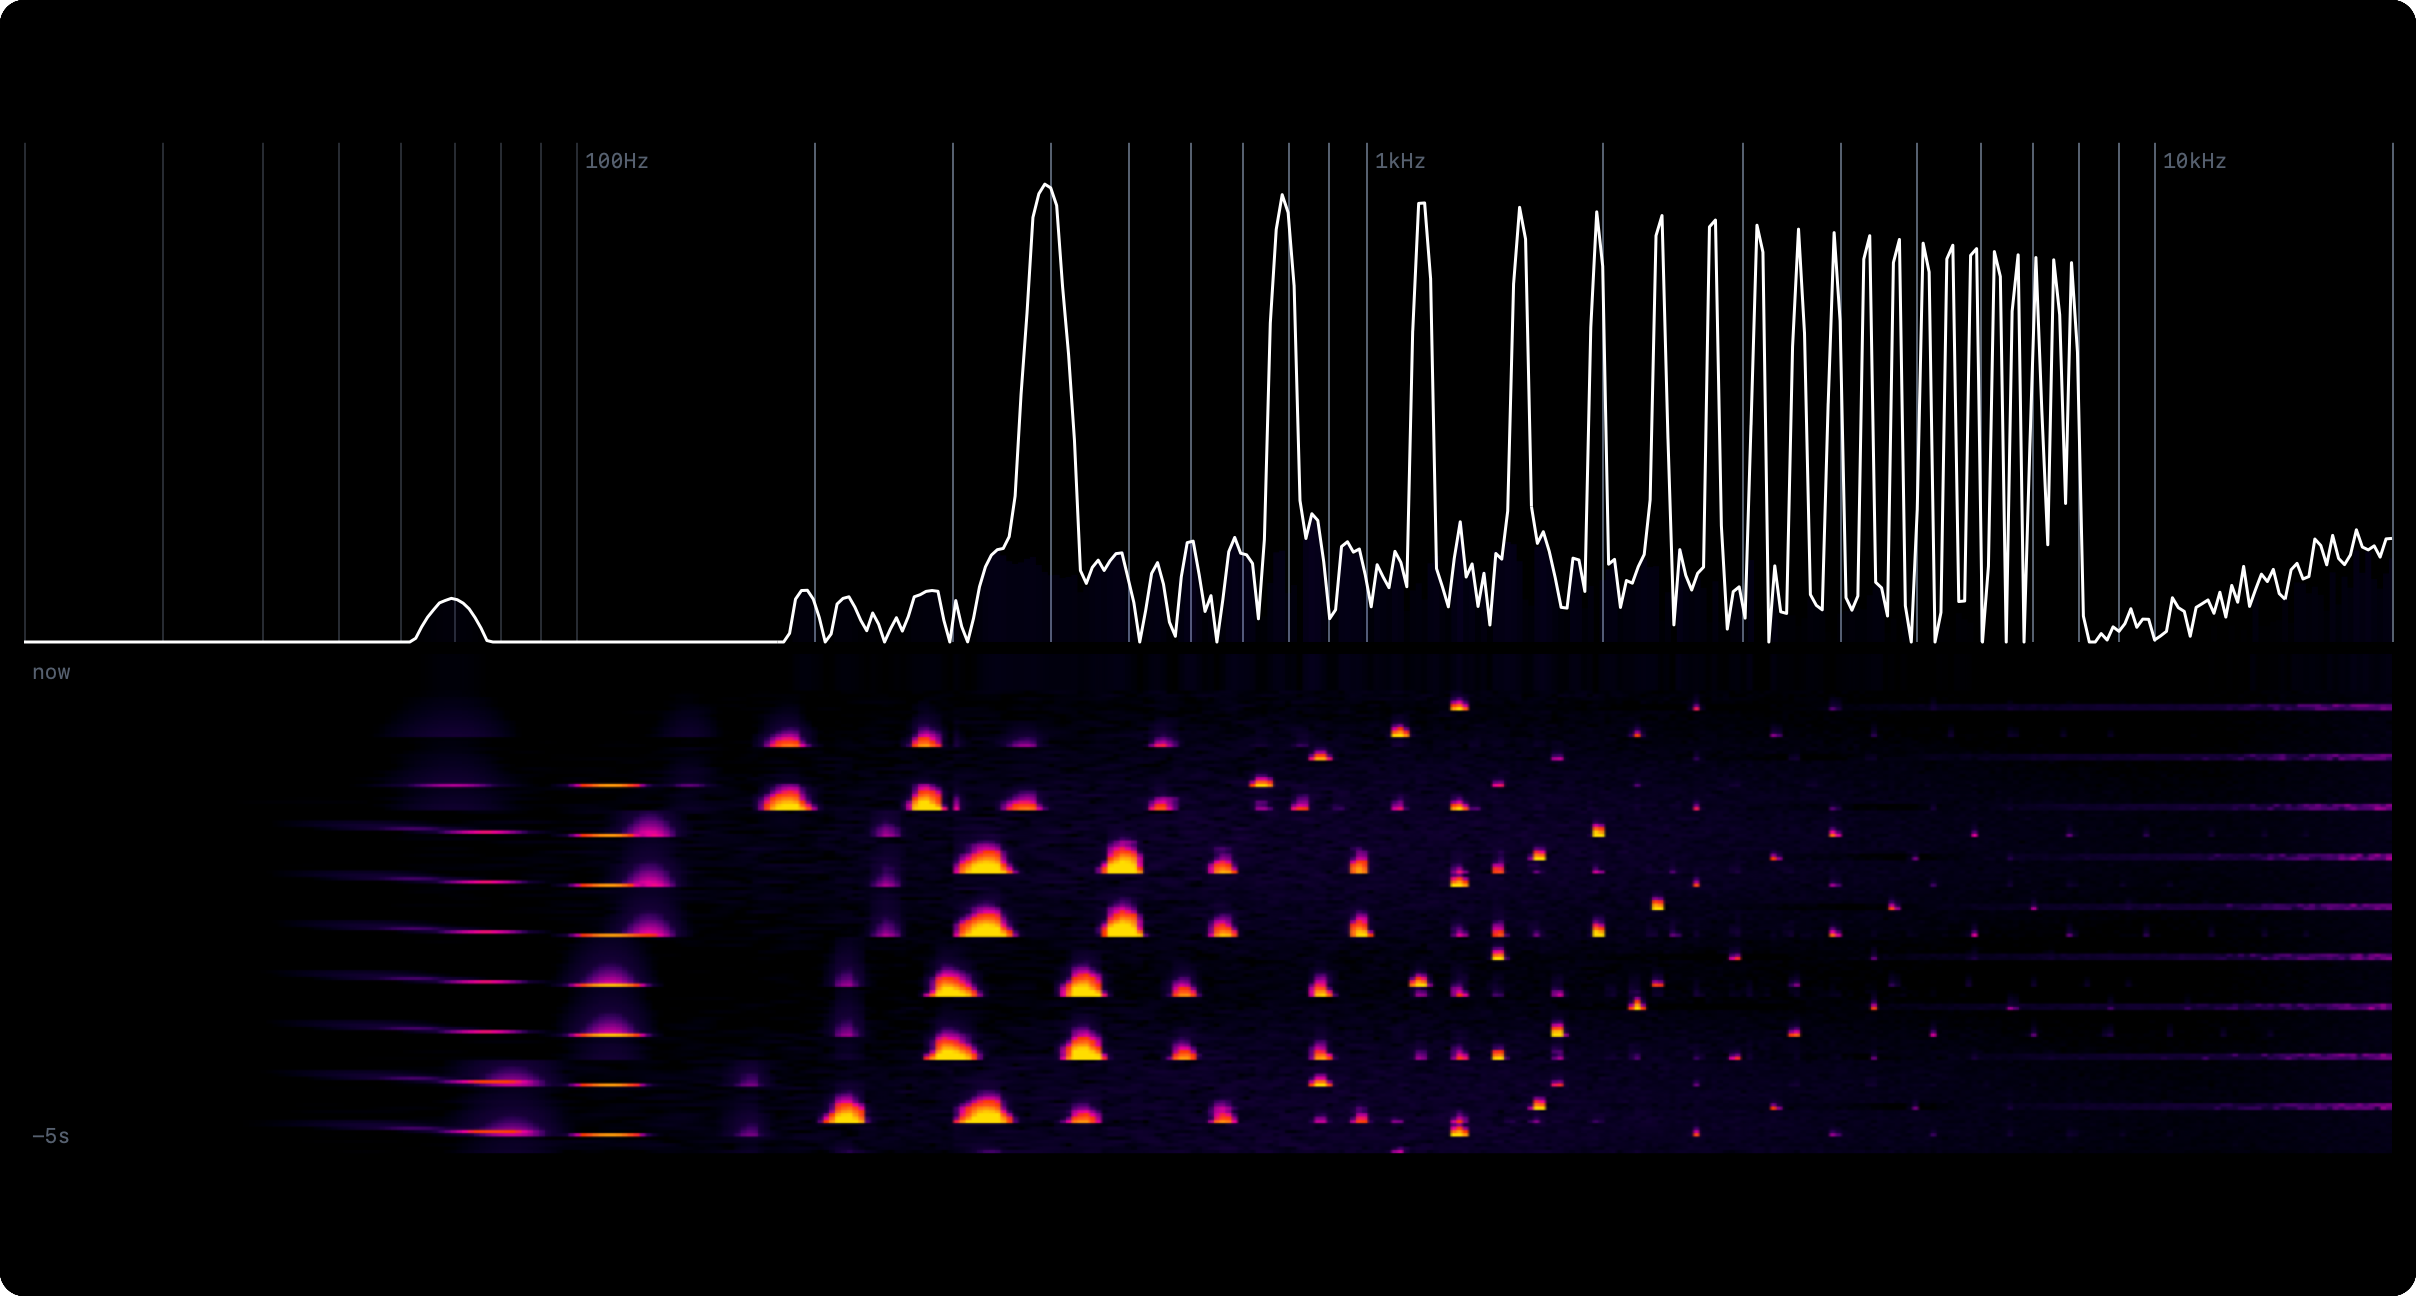
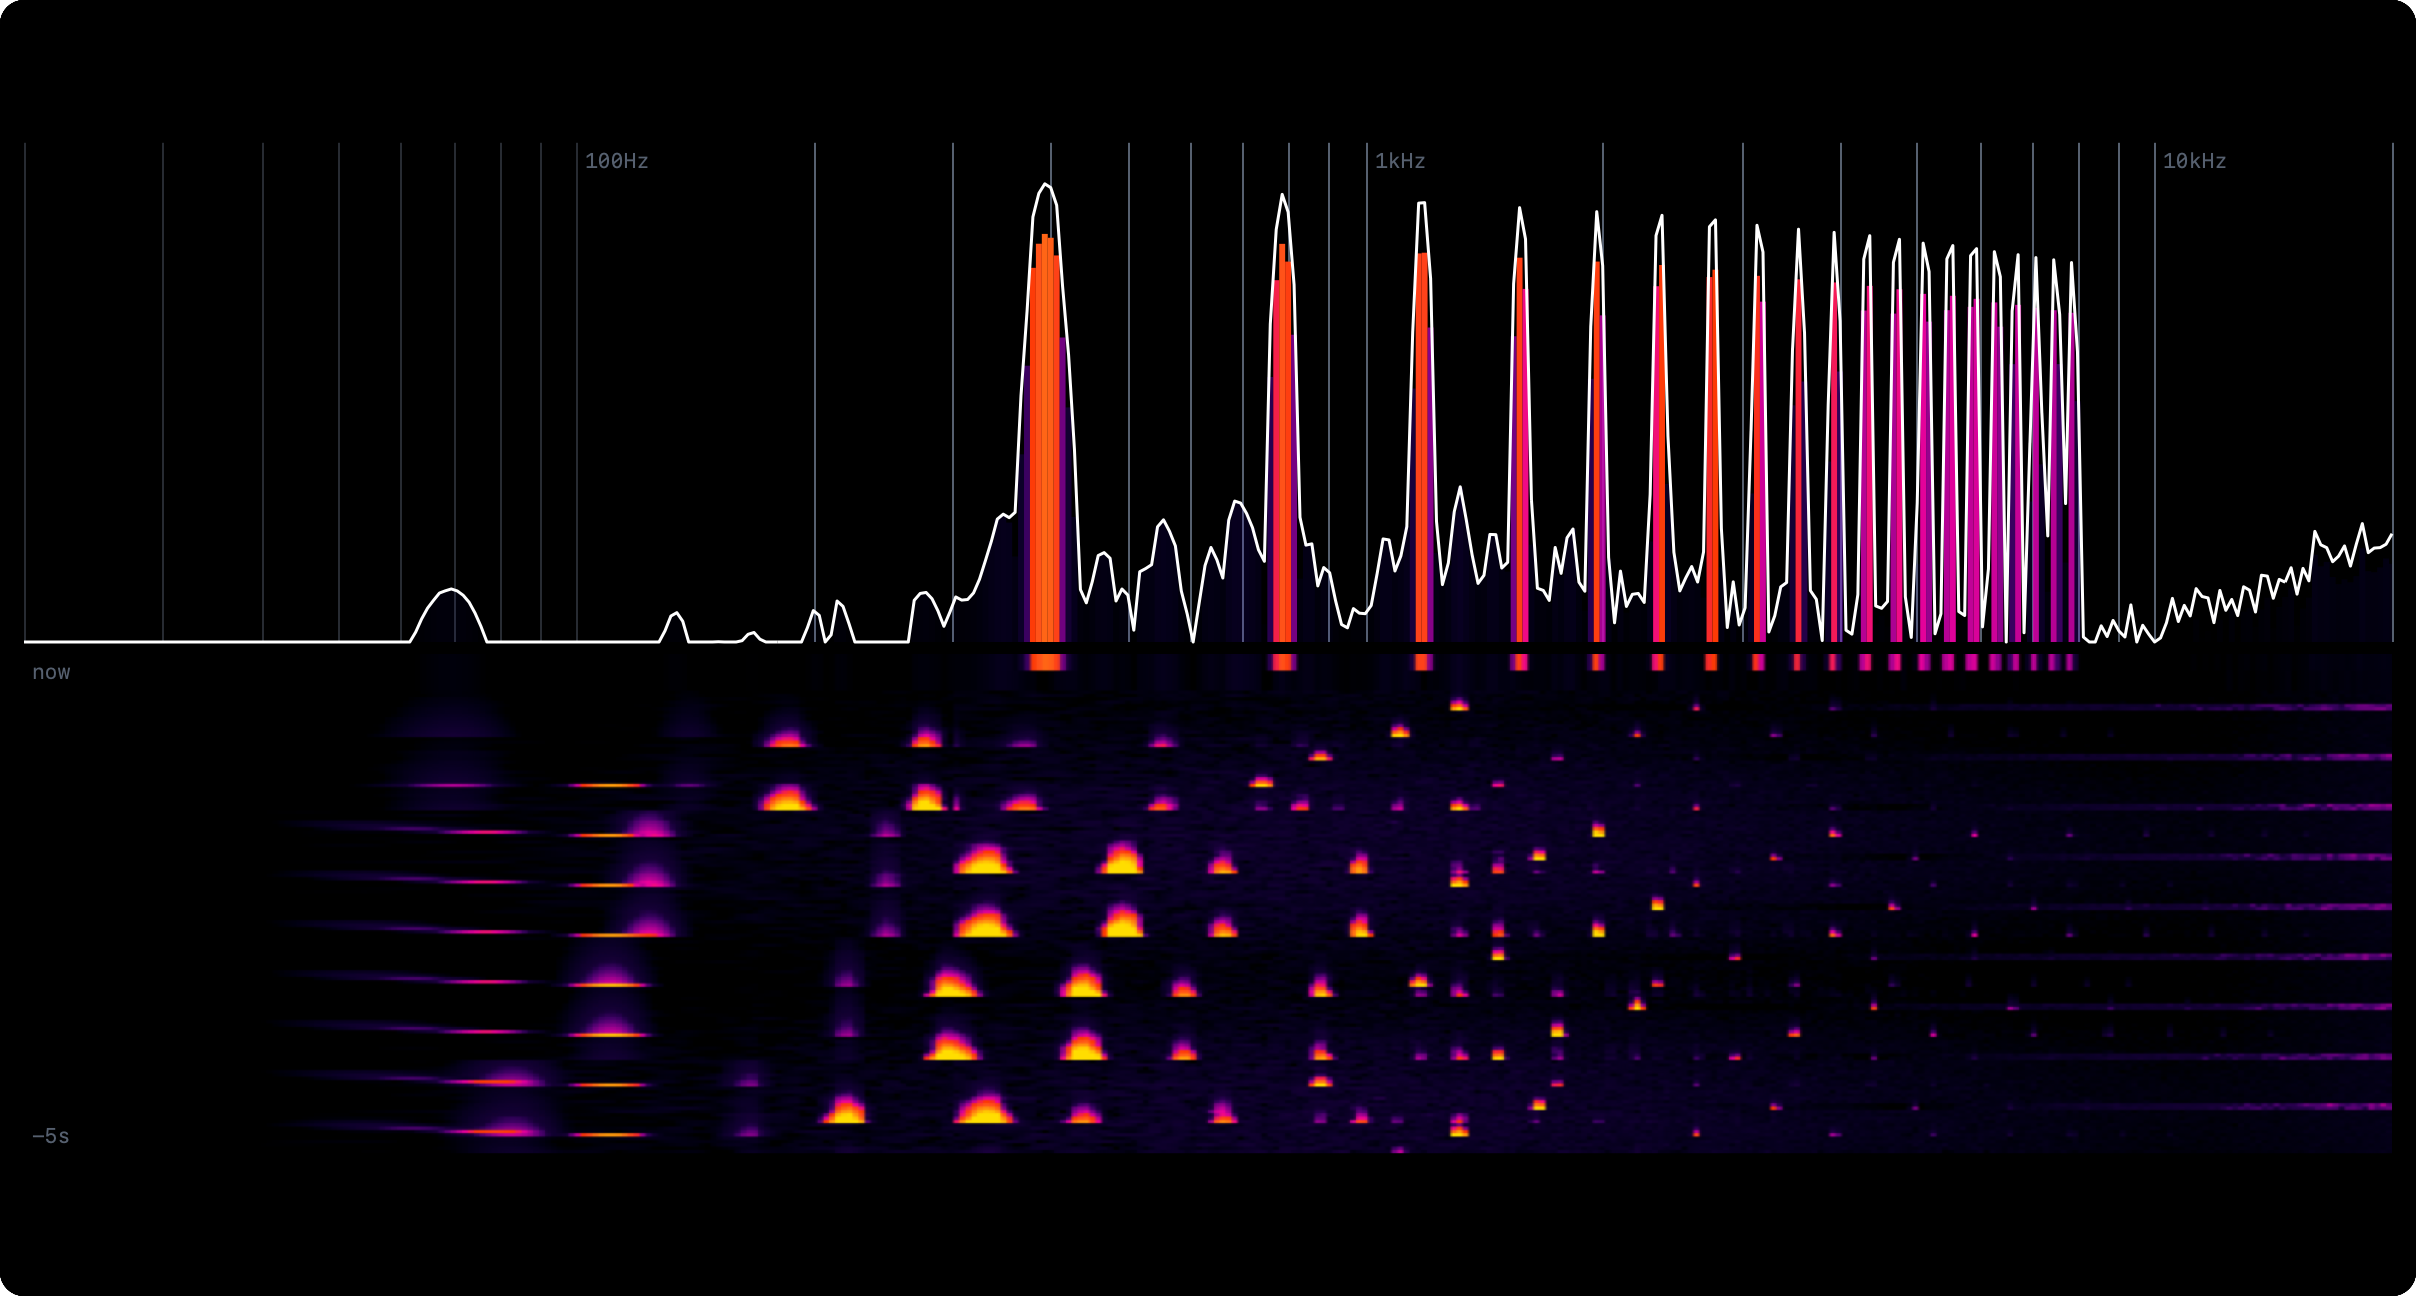
2D spectrum screenshot: show the coloured bars
The test signal muted the vocals, so the heard bars sat in the clear part of the
colour map. The 2D picture now plays the vocals at half level.

Changed region(s): [[0.3104, 0.1852, 0.9623, 0.5247], [0.9623, 0.4012, 0.9934, 0.4321], [0.1552, 0.463, 0.1863, 0.4938]]

diff --git a/Sources/LiveStems/SpectrumE2E.swift b/Sources/LiveStems/SpectrumE2E.swift
@@ -45,7 +45,7 @@ enum SpectrumE2E {
     controller.window.setContentSize(NSSize(width: 1240, height: 724))
     controller.window.contentView?.layoutSubtreeIfNeeded()
     var generator = SystemRandomNumberGenerator()
-    var pushSeconds = [Double](), last = ([Float](), [Float]())
+    var pushSeconds = [Double](), last = ([Float](), [Float]()), halfVocals = [Float]()
     let progression: [[Float]] = [[0, 4, 7, 11], [5, 9, 12, 16], [7, 11, 14, 17], [-3, 0, 4, 7]]
     for frame in 0..<(view.seconds * SpectrumView.rowsPerSecond) {
       let time = Float(frame) / Float(SpectrumView.rowsPerSecond)
@@ -57,7 +57,7 @@ enum SpectrumE2E {
       let stab = 0.6 * breakdown * exp(-time.truncatingRemainder(dividingBy: 0.625) * 12), pluck = 0.08 * exp(-time.truncatingRemainder(dividingBy: 0.25) * 25)
       let swell = 0.06 + 0.04 * sin(time * 2.3)  // the room swells and settles
       // The original has a sung line; what you hear has it muted, as with Vocals muted.
-      var heard = [Float](), song = [Float](), hiss: Float = 0, warm: Float = 0, dark: Float = 0, rumble: Float = 0
+      var heard = [Float](), song = [Float](), half = [Float](), hiss: Float = 0, warm: Float = 0, dark: Float = 0, rumble: Float = 0
       let note = 392 * pow(2, Float([0, 2, 4, 7, 4, 2][Int(time / 0.4) % 6]) / 12)
       for n in 0..<SpectrumAnalyzer.size {
         let t = Float(n) / analyzer.rate + time, noise = Float.random(in: -1...1, using: &generator)
@@ -81,11 +81,13 @@ enum SpectrumE2E {
         for h in 1...20 where note * Float(h) < 16000 { voice += 0.12 / Float(h) * sin(sung * Float(h)) }
         heard.append(x)
         song.append(x + voice)
+        half.append(x + 0.5 * voice)
       }
       let levels = (analyzer.levels(heard, log: true), analyzer.levels(song, log: true)), began = stemClock()
       view.push(heard: levels.0, original: levels.1)
       pushSeconds.append(stemClock() - began)
       last = levels
+      halfVocals = analyzer.levels(half, log: true)
     }
     var timings = ["push": pushSeconds.sorted()[pushSeconds.count * 95 / 100]]
     func png(_ image: CGImage, _ name: String) throws {
@@ -127,7 +129,7 @@ enum SpectrumE2E {
     NSGraphicsContext.current = NSGraphicsContext(cgContext: flat, flipped: false)
     drawn = 0
     for _ in 0..<5 {
-      view.push(heard: last.0, original: last.1)
+      view.push(heard: halfVocals, original: last.1)
       let began = stemClock()
       view.draw(view.bounds)
       flat.flush()
@@ -135,6 +137,7 @@ enum SpectrumE2E {
     }
     NSGraphicsContext.restoreGraphicsState()
     timings["2d"] = drawn / 5
+    // The 2D picture plays the vocals at half level, so the bars show colour against the song's outline.
     try png(flat.makeImage()!, "spectrum-2d.png")
     // The whole window, toolbar included, over a dusk-blue stand-in for the desktop behind the
     // glass, which renders opaque grey off screen; the 3D view drawn off screen in its place.
